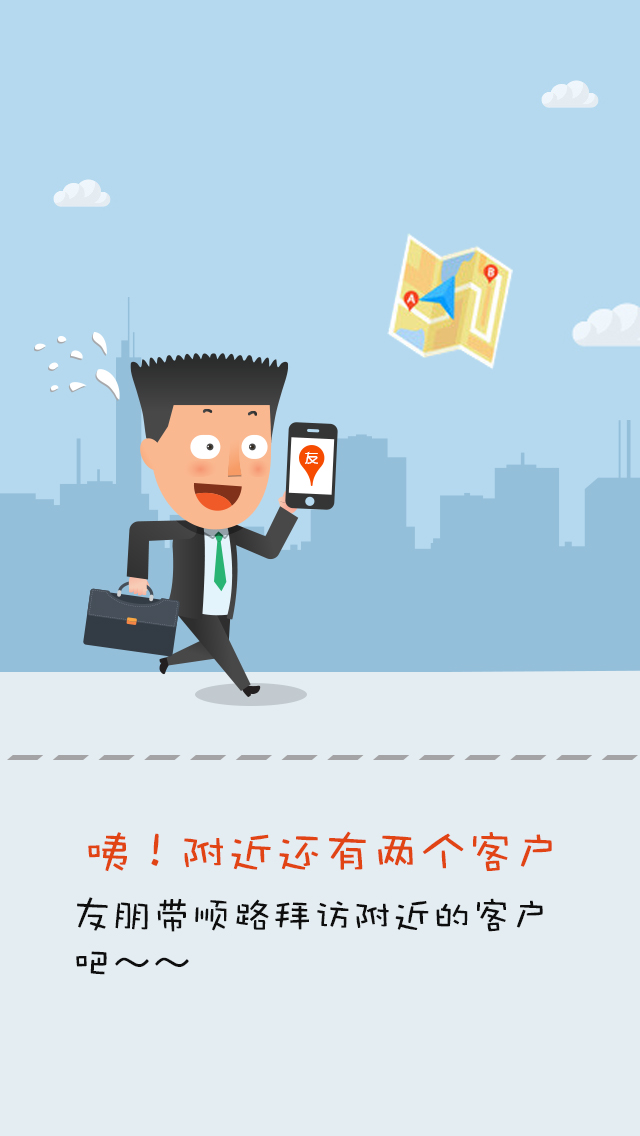
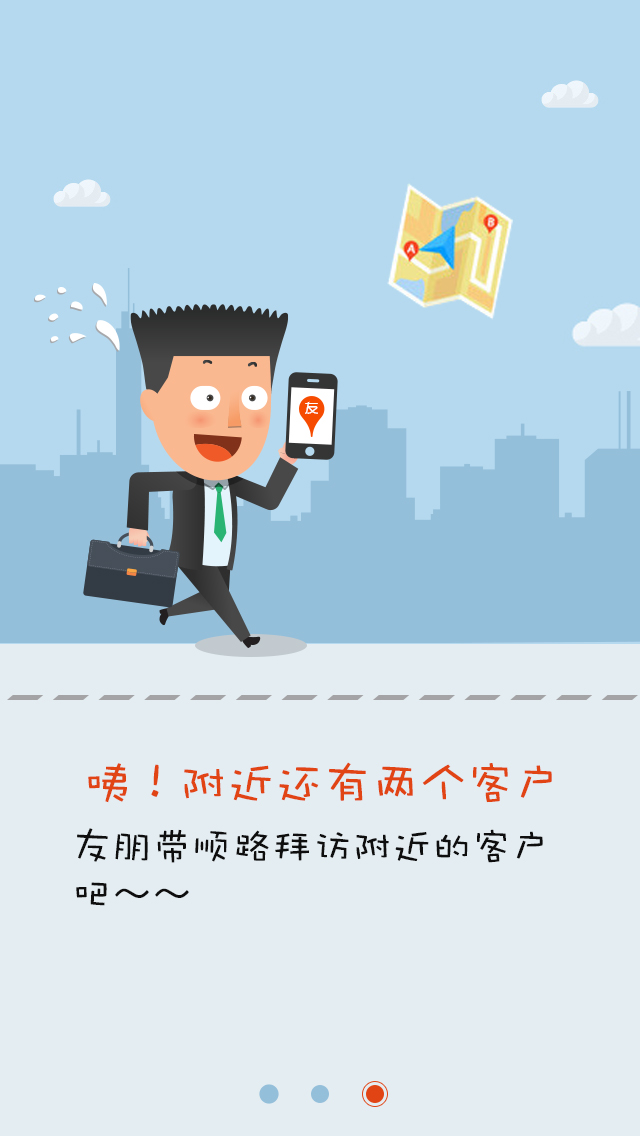
1 引导页修改 2 对好友，加入位置类型（家、公司）的标识

diff --git a/contacts/pages/detail/CNDetailViewController.m b/contacts/pages/detail/CNDetailViewController.m
@@ -506,7 +506,8 @@ NSString *const CN_DETAIL_ADD_FRIEND_OPTION = @"addfriend";
             && [_person.mobile isEqualToString:[_mobileCell.input ssn_trimAllWhitespace]]
             && [_person.province isEqualToString:[_provinceCell.subTitle ssn_trimWhitespace]]
             && [_person.addressDetail isEqualToString:[_addressDetailCell.input ssn_trimWhitespace]]
-            && _person.gender == (_genderCell.value == 1 ? CNPersonMaleGender : CNPersonFemaleGender)) {
+            && _person.gender == (_genderCell.value == 0 ? CNPersonMaleGender : CNPersonFemaleGender)
+            && _person.addressLabel == (_addressTypeCell.value == 0 ? CNHomeAddressLabel : CNCompanyAddressLabel)) {
             self.navigationItem.rightBarButtonItem.enabled = NO;
         }
         else {
@@ -557,18 +558,19 @@ NSString *const CN_DETAIL_ADD_FRIEND_OPTION = @"addfriend";
 }
 
 - (void)cellRadioDidSelect:(CNSelectionCell *)cell {
-    CNSelectionCellModel *model = (CNSelectionCellModel *)cell.ssn_cellModel;
-    if (![model.title isEqualToString:cn_localized(@"user.address.type.label")]) {
-        [self checkButtonStatus];
-        return ;
-    }
-    if (model.value == 0) {
-        _person.addressLabel = CNHomeAddressLabel;
-    }
-    else {
-        _person.addressLabel = CNCompanyAddressLabel;
-    }
+//    CNSelectionCellModel *model = (CNSelectionCellModel *)cell.ssn_cellModel;
+//    if (![model.title isEqualToString:cn_localized(@"user.address.type.label")]) {
+//        [self checkButtonStatus];
+//        return ;
+//    }
+//    if (model.value == 0) {
+//        _person.addressLabel = CNHomeAddressLabel;
+//    }
+//    else {
+//        _person.addressLabel = CNCompanyAddressLabel;
+//    }
     
+    [self checkButtonStatus];
     [self.ssn_tableViewConfigurator.listFetchController loadData];
 }
 

diff --git a/contacts/views/friends/CNPersonCell.m b/contacts/views/friends/CNPersonCell.m
@@ -16,7 +16,7 @@
         
         NSUInteger name_width = cn_screen_width/2 - cn_left_edge_width - cn_hor_space_width;
         
-        _name = [UILabel ssn_labelWithWidth:name_width font:cn_normal_font color:cn_text_normal_color backgroud:cn_clear_color alignment:NSTextAlignmentLeft multiLine:NO];
+        _name = [UILabel ssn_labelWithWidth:name_width font:cn_title_font color:cn_text_normal_color backgroud:cn_clear_color alignment:NSTextAlignmentLeft multiLine:NO];
         
         _distanceLabel = [UILabel ssn_labelWithWidth:name_width font:cn_normal_font color:cn_text_assist_color backgroud:cn_clear_color alignment:NSTextAlignmentLeft multiLine:NO];
         
@@ -45,7 +45,8 @@
     [super ssn_configureCellWithModel:model atIndexPath:indexPath inTableView:tableView];
     
     if ([model isKindOfClass:[CNPersonCellModel class]]) {
-        _name.text = model.person.name;
+        NSString * addressLabel = model.person.addressLabel == CNCompanyAddressLabel ? @"公司" : @"家";
+        _name.text = [NSString stringWithFormat:@"%@-%@", model.person.name, addressLabel];
         if (model.person.distance > 0.009f ) {
             _distanceLabel.text = [NSString stringWithFormat:@"%.2fkm",model.person.distance];
         }

diff --git a/contacts/views/nearby/CNNearbyPersonCell.m b/contacts/views/nearby/CNNearbyPersonCell.m
@@ -117,7 +117,8 @@
     [super ssn_configureCellWithModel:model atIndexPath:indexPath inTableView:tableView];
     
     if ([model isKindOfClass:[CNNearbyPersonCellModel class]]) {
-        _nameLabel.text = [NSString stringWithFormat:@"%ld.%@",(long)model.person.nearbyIndex,model.person.name];
+        NSString * addressLabel = model.person.addressLabel == CNCompanyAddressLabel ? @"公司" : @"家";
+        _nameLabel.text = [NSString stringWithFormat:@"%ld.%@-%@",(long)model.person.nearbyIndex,model.person.name, addressLabel];
         _addressLabel.text = model.person.street;
         if (model.person.distance > 0.009f ) {
             _distanceLabel.text = [NSString stringWithFormat:@"%.2fkm",model.person.nearbyDistance];

diff --git a/contacts/pages/nearby/CNNearbyViewController.m b/contacts/pages/nearby/CNNearbyViewController.m
@@ -454,7 +454,8 @@
 //        if (addr) {
     self.pointAnnotation.subtitle = self.selectdPerson.street;
     NSString *distanceStr = [NSString stringWithFormat:@"距离:%.2fkm",self.selectdPerson.nearbyDistance];
-    NSString *showTitle = [NSString stringWithFormat:@"%ld.%@",(long)(self.selectdPerson.nearbyIndex),self.selectdPerson.name];
+    NSString * addressLabel = self.selectdPerson.addressLabel == CNCompanyAddressLabel ? @"公司" : @"家";
+    NSString *showTitle = [NSString stringWithFormat:@"%ld.%@-%@",(long)(self.selectdPerson.nearbyIndex),self.selectdPerson.name,addressLabel];
     [self showBottomPanelWithTitle:showTitle distance:distanceStr detail:self.selectdPerson.street];
 //        }
 //    }];
